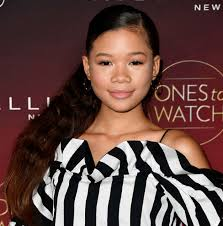
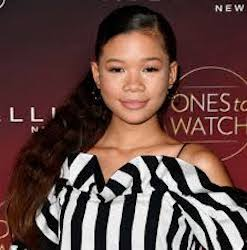
fix: resized actor's images so that the bootstrap cards are the same height

diff --git a/movie-trailer-app/src/app/app.component.html b/movie-trailer-app/src/app/app.component.html
@@ -1,49 +1,49 @@
-
 <nav class="navbar navbar-expand-md navbar-dark fixed-top bg-dark">
-      <a class="navbar-brand" href="#">Navbar</a>
-      <button class="navbar-toggler" type="button" data-toggle="collapse" data-target="#navbarsExampleDefault" aria-controls="navbarsExampleDefault" aria-expanded="false" aria-label="Toggle navigation">
-        <span class="navbar-toggler-icon"></span>
-      </button>
+  <a class="navbar-brand" href="#">Navbar</a>
+  <button class="navbar-toggler" type="button" data-toggle="collapse" data-target="#navbarsExampleDefault" aria-controls="navbarsExampleDefault" aria-expanded="false" aria-label="Toggle navigation">
+    <span class="navbar-toggler-icon"></span>
+  </button>
 
-      <div class="collapse navbar-collapse" id="navbarsExampleDefault">
-        <ul class="navbar-nav mr-auto">
-          <li class="nav-item active">
-            <a class="nav-link" href="#">Home <span class="sr-only">(current)</span></a>
-          </li>
-          <li class="nav-item">
-            <a class="nav-link" href="#">Link</a>
-          </li>
-          <li class="nav-item">
-            <a class="nav-link" href="#">Disabled</a>
-          </li>
-          <li class="nav-item dropdown">
-            <a class="nav-link dropdown-toggle" href="http://example.com" id="dropdown01" data-toggle="dropdown" aria-haspopup="true" aria-expanded="false">Dropdown</a>
-            <div class="dropdown-menu" aria-labelledby="dropdown01">
-              <a class="dropdown-item" href="#">Action</a>
-              <a class="dropdown-item" href="#">Another action</a>
-              <a class="dropdown-item" href="#">Something else here</a>
-            </div>
-          </li>
-        </ul>
-        <form class="form-inline my-2 my-lg-0">
-          <input class="form-control mr-sm-2" type="text" placeholder="Search" aria-label="Search">
-          <button class="btn btn-outline-success my-2 my-sm-0" type="submit">Search</button>
-        </form>
-      </div>
-    </nav>
-<div>
-  <br>
-  <br>
+  <div class="collapse navbar-collapse" id="navbarsExampleDefault">
+    <ul class="navbar-nav mr-auto">
+      <li class="nav-item active">
+        <a class="nav-link" href="#">Home <span class="sr-only">(current)</span></a>
+      </li>
+      <li class="nav-item">
+        <a class="nav-link" href="#">Link</a>
+      </li>
+      <li class="nav-item">
+        <a class="nav-link" href="#">Disabled</a>
+      </li>
+      <li class="nav-item dropdown">
+        <a class="nav-link dropdown-toggle" href="http://example.com" id="dropdown01" data-toggle="dropdown" aria-haspopup="true" aria-expanded="false">Dropdown</a>
+        <div class="dropdown-menu" aria-labelledby="dropdown01">
+          <a class="dropdown-item" href="#">Action</a>
+          <a class="dropdown-item" href="#">Another action</a>
+          <a class="dropdown-item" href="#">Something else here</a>
+        </div>
+      </li>
+    </ul>
+    <form class="form-inline my-2 my-lg-0">
+      <input class="form-control mr-sm-2" type="text" placeholder="Search" aria-label="Search">
+      <button class="btn btn-outline-success my-2 my-sm-0" type="submit">Search</button>
+    </form>
+  </div>
+</nav>
+
+<br>
+<br>
 <div class="container">
-          <h1 class="display-3">Actors</h1>
-          <p>This is a template for a simple marketing or informational website. It includes a large callout called a jumbotron and three supporting pieces of content. Use it as a starting point to create something more unique.</p>
-          <p><a class="btn btn-primary btn-lg" href="#" role="button">Learn more »</a></p>
-        </div>
-        <div id="container">
+  <h1 class="display-3">Actors</h1>
+  <p>This is a template for a simple marketing or informational website. It includes a large callout called a jumbotron and three supporting pieces of content. Use it as a starting point to create something more unique.</p>
+  <p><a class="btn btn-primary btn-lg" href="#" role="button">Learn more »</a></p>
+</div>
+<div id="container">
 
-          <router-outlet></router-outlet>
-          <!-- routed views go here -->
-          <br><br>
+  <router-outlet></router-outlet>
+  <!-- routed views go here -->
+  <br><br>
+</div>
+  <hr class="style1"style="margin-top:870px;width: 640px;">
 
-          <footer> Made with 💪 by Aminah Aliu</footer>
-        </div>
+<footer class="text-center"> Made with 💪 by Aminah Aliu</footer>

diff --git a/movie-trailer-app/src/app/actors/actors.component.html b/movie-trailer-app/src/app/actors/actors.component.html
@@ -1,7 +1,7 @@
 <br>
 <div *ngFor="let actor of actors" style="display:inline;">
   <div class="card" class="mx-auto" style="float:left; max-width:300px;">
-    <img class="card-img-top" src="{{actor.image}}" alt="Card image cap" class="center" style="width:90%; height:90%;">
+    <img class="card-img-top" src="{{actor.image}}" alt="Card image cap" class="center" style="height:250px;width:auto;padding:10px;">
     <div class="card-body">
       <h5 class="card-title" style="text-align:center;">{{actor.name}} </h5>
       <p class="card-text">Some quick example text to build on the card title and make up the bulk of the card's content.</p>
